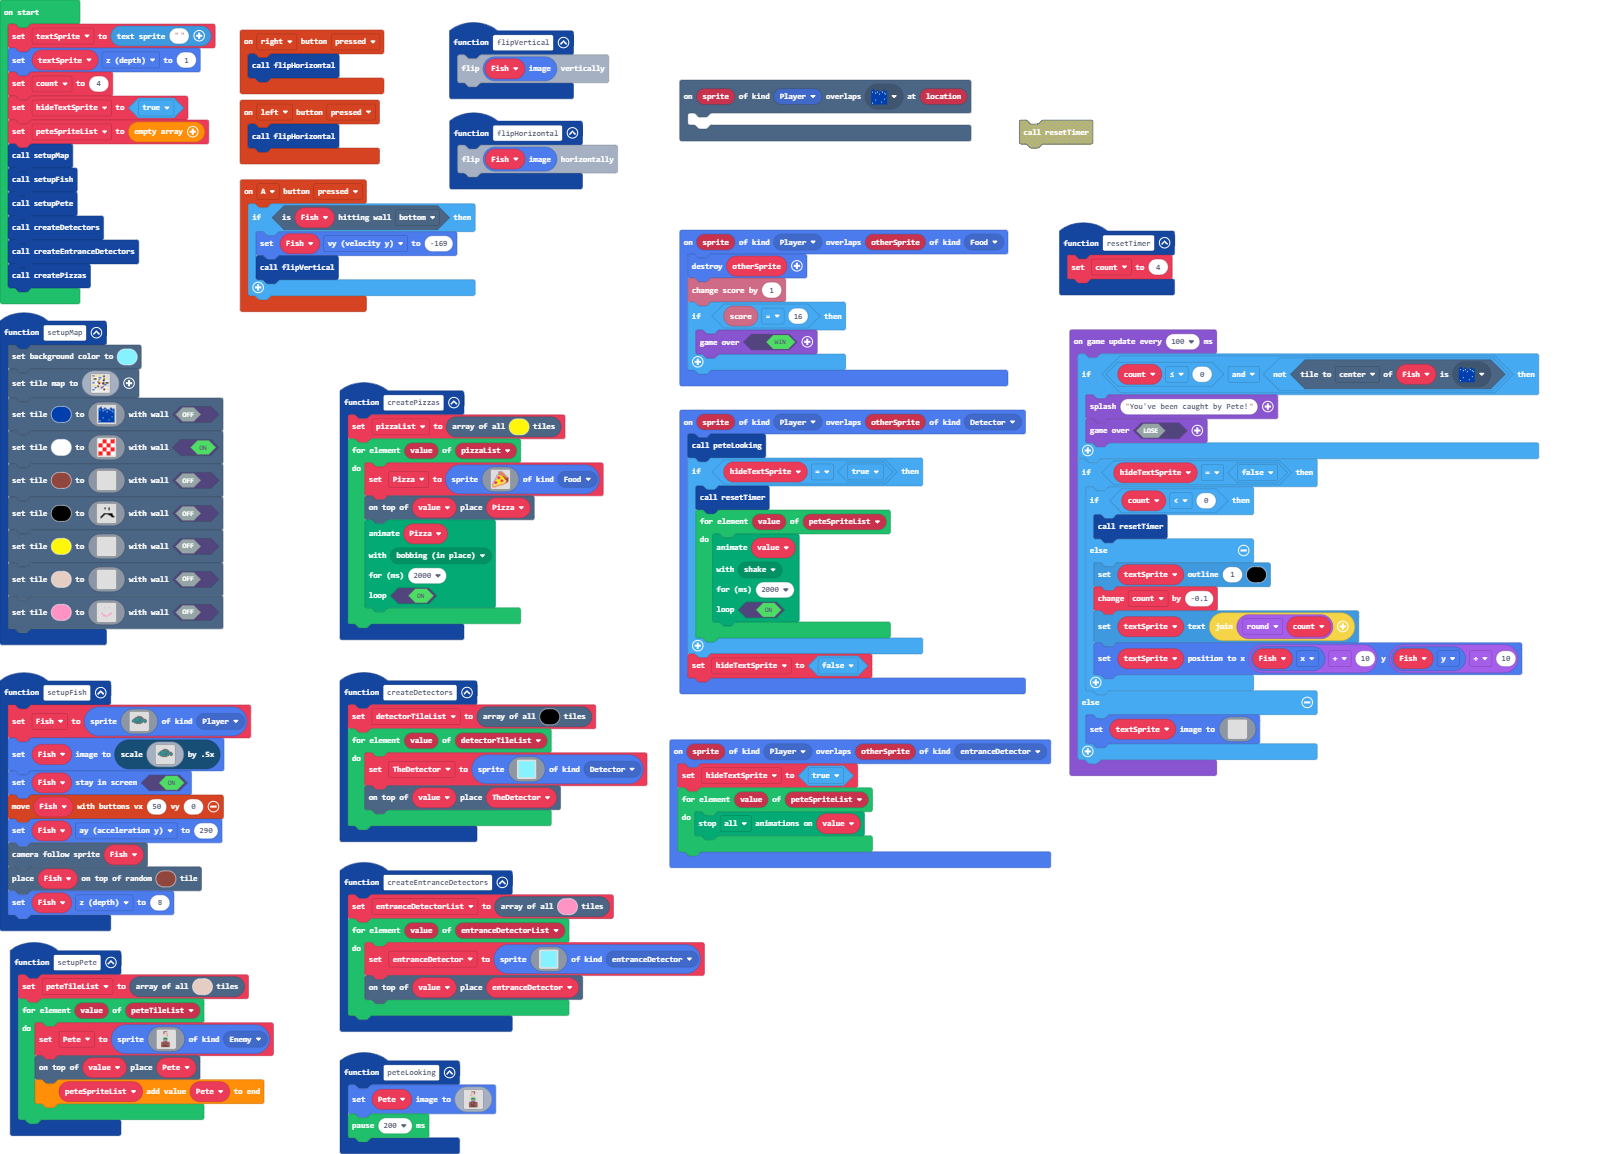
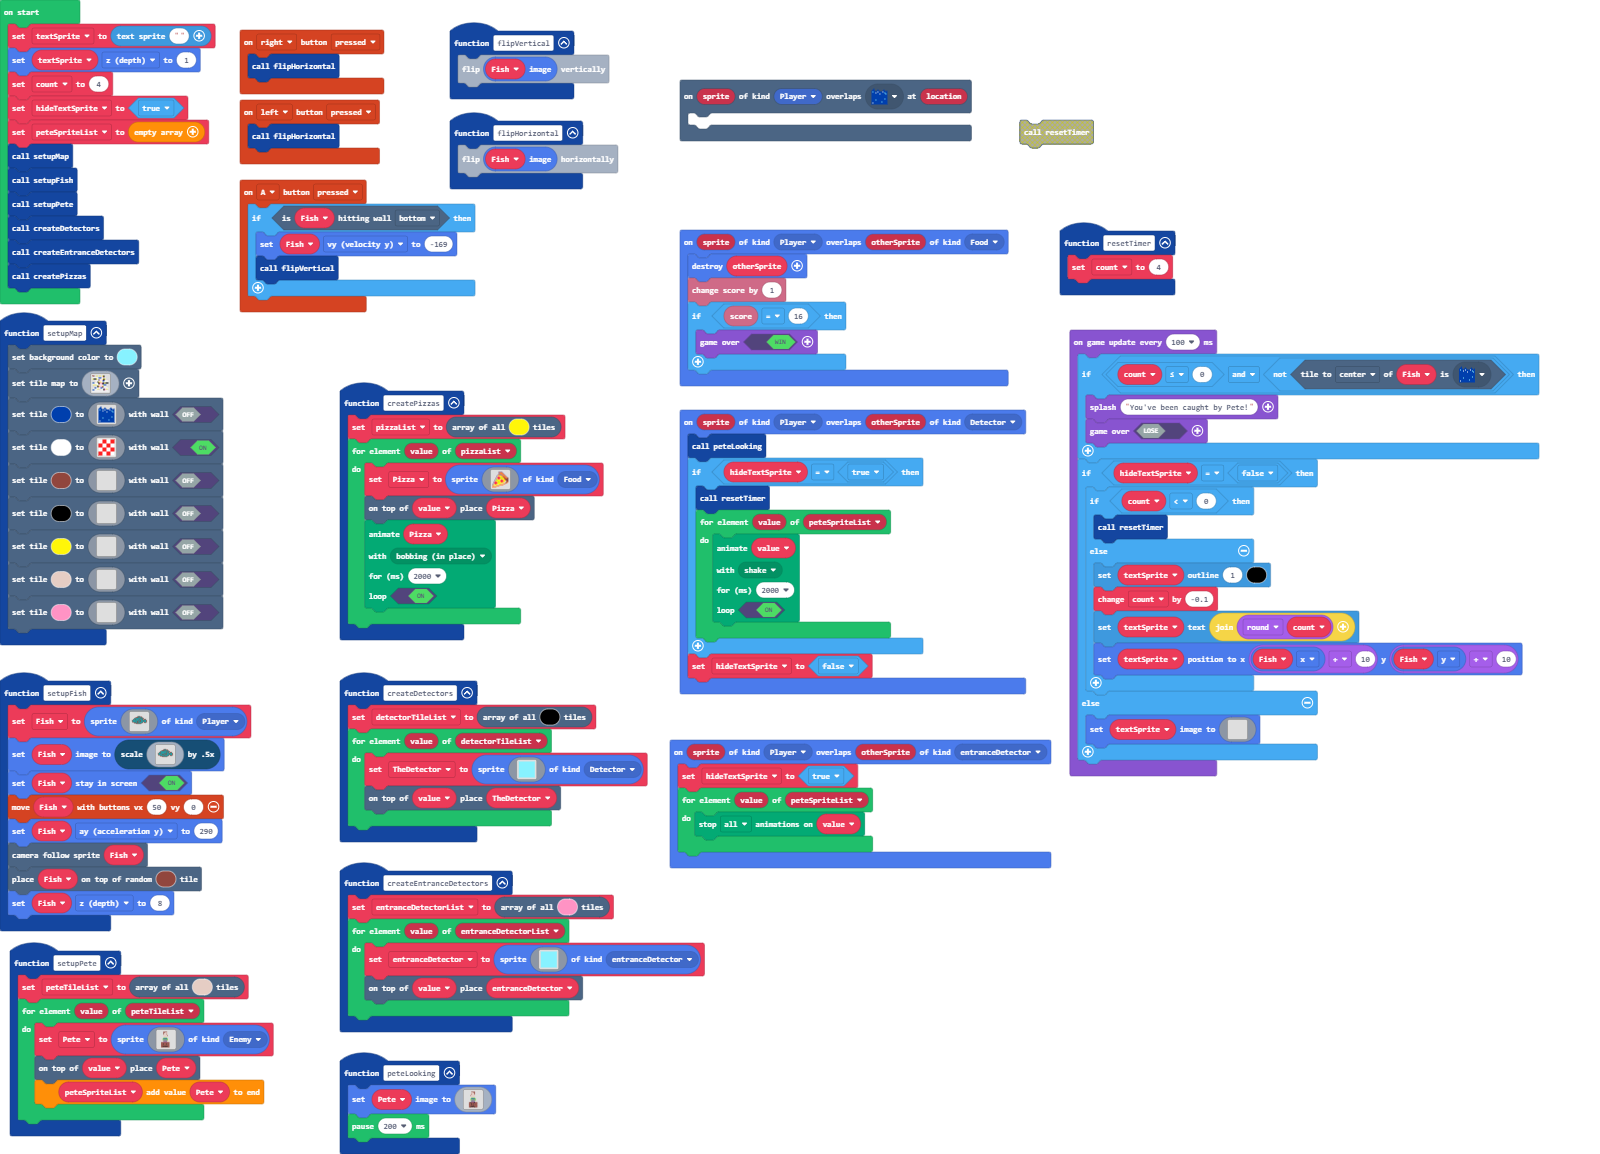
Took out the test wall drawings

diff --git a/main.ts b/main.ts
@@ -123,17 +123,17 @@ function setupMap () {
     scene.setTile(15, img`
         . . . . . . . . . . . . . . . . 
         . . . . . . . . . . . . . . . . 
-        . . . . . . f . . . f . . . . . 
-        . . . . . . f . . . f . . . . . 
-        . . . . . . . . . . f . . . . . 
         . . . . . . . . . . . . . . . . 
         . . . . . . . . . . . . . . . . 
         . . . . . . . . . . . . . . . . 
-        . . . . . f f f f f f f f f . . 
-        . . . . f f . . . . f f f f . . 
-        . . . f f . . . . . . . f f f . 
-        . . f f . . . . . . . . . f f f 
-        . . f . . . . . . . . . . . . . 
+        . . . . . . . . . . . . . . . . 
+        . . . . . . . . . . . . . . . . 
+        . . . . . . . . . . . . . . . . 
+        . . . . . . . . . . . . . . . . 
+        . . . . . . . . . . . . . . . . 
+        . . . . . . . . . . . . . . . . 
+        . . . . . . . . . . . . . . . . 
+        . . . . . . . . . . . . . . . . 
         . . . . . . . . . . . . . . . . 
         . . . . . . . . . . . . . . . . 
         . . . . . . . . . . . . . . . . 
@@ -178,16 +178,16 @@ function setupMap () {
         . . . . . . . . . . . . . . . . 
         . . . . . . . . . . . . . . . . 
         . . . . . . . . . . . . . . . . 
-        . . . . . . 3 . . . 3 . . . . . 
         . . . . . . . . . . . . . . . . 
         . . . . . . . . . . . . . . . . 
         . . . . . . . . . . . . . . . . 
         . . . . . . . . . . . . . . . . 
-        . . . 3 . . . . . . . . 3 . . . 
-        . . . 3 . . . . . . . 3 3 . . . 
-        . . . . 3 3 . . . . 3 3 . . . . 
-        . . . . . 3 3 . 3 3 . . . . . . 
-        . . . . . . . 3 . . . . . . . . 
+        . . . . . . . . . . . . . . . . 
+        . . . . . . . . . . . . . . . . 
+        . . . . . . . . . . . . . . . . 
+        . . . . . . . . . . . . . . . . 
+        . . . . . . . . . . . . . . . . 
+        . . . . . . . . . . . . . . . . 
         . . . . . . . . . . . . . . . . 
         . . . . . . . . . . . . . . . . 
         . . . . . . . . . . . . . . . . 
